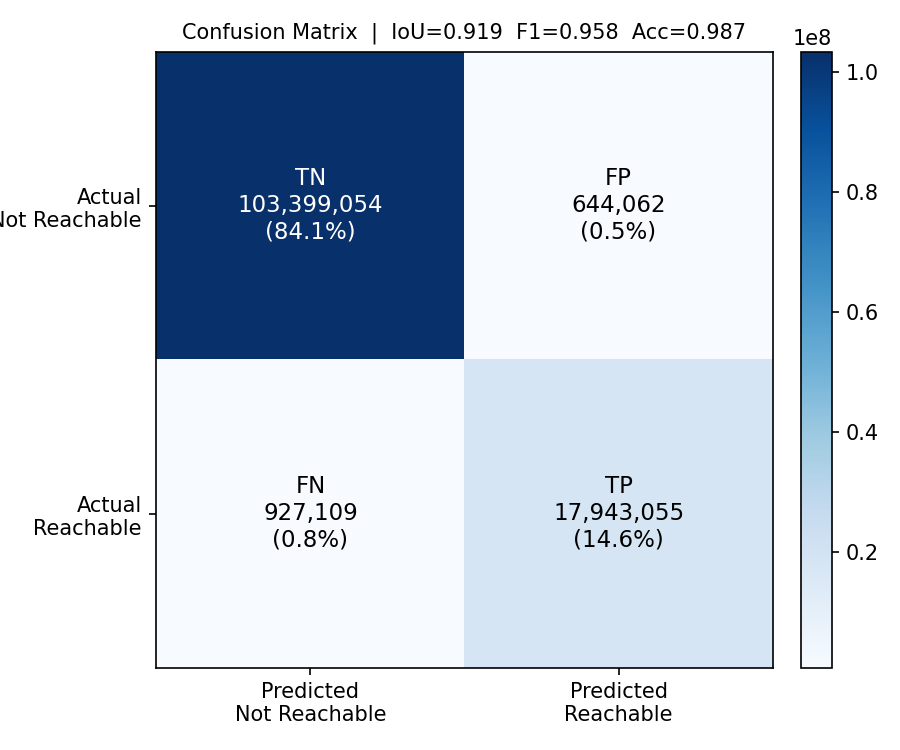
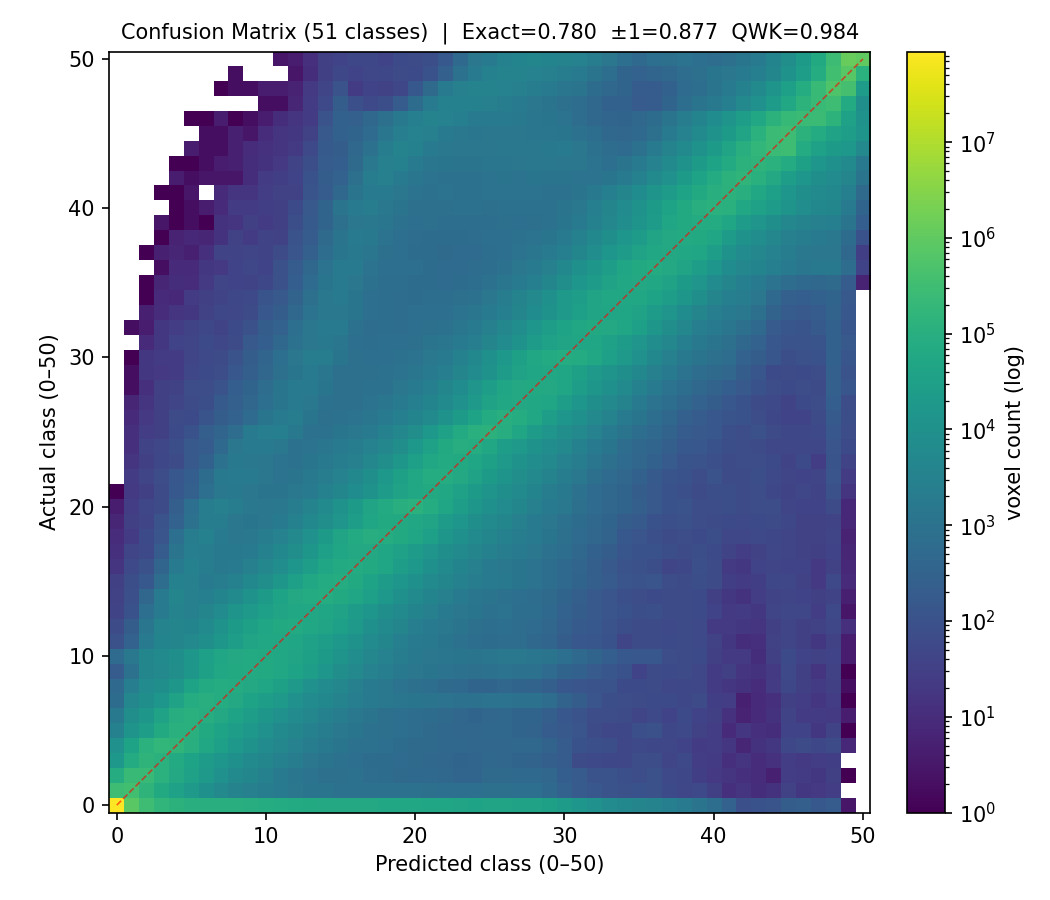
Add evaluation reports, confusion matrices, and region classification metrics for UNet3D experiments

diff --git a/unet_3d/script/evaluate.py b/unet_3d/script/evaluate.py
@@ -60,17 +60,19 @@ def normalize(arr):
 
 
 def predict_file(model, device, filepath):
+    """Return (pred, label, raw) as 3D float32 volumes (shape preserved for region masks)."""
     with h5py.File(filepath, "r") as f:
         raw   = f["raw"][:]
         label = f["label"][:]
 
-    raw_norm = normalize(raw.astype(np.float32))
+    raw_f = raw.astype(np.float32)
+    raw_norm = normalize(raw_f)
     tensor   = torch.from_numpy(raw_norm[np.newaxis, np.newaxis]).to(device)
 
     with torch.no_grad():
-        pred = model(tensor).squeeze().cpu().numpy()
+        pred = model(tensor).squeeze().cpu().numpy().astype(np.float32)
 
-    return pred.ravel(), label.ravel().astype(np.float32)
+    return pred, label.astype(np.float32), raw_f
 
 
 N_CLASSES = 51  # reachability index is a fraction of 50 -> classes 0..50
@@ -84,6 +86,31 @@ def to_classes(arr):
     mode), but clip guards any tiny over/undershoot.
     """
     return np.clip(np.rint(arr * 50.0), 0, 50).astype(np.int16)
+
+
+def gradmag3d(a):
+    """Per-voxel gradient magnitude of a 3D array (for locating sharp/thin edges)."""
+    gx, gy, gz = np.gradient(a.astype(np.float32))
+    return np.sqrt(gx ** 2 + gy ** 2 + gz ** 2)
+
+
+def region_masks(label_cls, label_cont, grad_pct=99.0):
+    """Boolean masks (same shape as the volume) isolating where the model's job is
+    actually hard. Aggregates dominated by empty background hide these.
+
+      reachable : class >= 1            (any non-empty voxel)
+      graded    : 1 <= class <= 49      (transition shell: not empty, not saturated)
+      thin      : top-1% |grad(label)|  (sharp boundaries / singularity lines)
+    """
+    reachable = label_cls >= 1
+    graded    = (label_cls >= 1) & (label_cls <= 49)
+    gl = gradmag3d(label_cont)
+    if reachable.any():
+        thr = np.quantile(gl, grad_pct / 100.0)
+        thin = gl >= thr
+    else:
+        thin = np.zeros_like(reachable)
+    return {"reachable": reachable, "graded": graded, "thin": thin}
 
 
 # =============================================================================
@@ -128,9 +155,11 @@ def multiclass_metrics(pred_cls, label_cls, n_classes=N_CLASSES):
     diff = np.abs(pred_cls.astype(np.int32) - label_cls.astype(np.int32))
     n = diff.size
 
-    exact   = float(np.mean(diff == 0))
-    within1 = float(np.mean(diff <= 1))
-    within2 = float(np.mean(diff <= 2))
+    exact    = float(np.mean(diff == 0))
+    within1  = float(np.mean(diff <= 1))
+    within2  = float(np.mean(diff <= 2))
+    within10 = float(np.mean(diff <= 10))
+    within20 = float(np.mean(diff <= 20))
     mace    = float(np.mean(diff))          # mean absolute class error (orientation steps)
     medce   = float(np.median(diff))
     rmsece  = float(np.sqrt(np.mean(diff.astype(np.float64) ** 2)))
@@ -142,6 +171,8 @@ def multiclass_metrics(pred_cls, label_cls, n_classes=N_CLASSES):
         "ExactAccuracy": exact,
         "Within1Accuracy": within1,
         "Within2Accuracy": within2,
+        "Within10Accuracy": within10,
+        "Within20Accuracy": within20,
         "MeanClassError": mace,
         "MedianClassError": medce,
         "RMSEClass": rmsece,
@@ -165,9 +196,11 @@ def merge_class_metrics(cm, n_voxels):
     if total == 0:
         total = 1.0
 
-    exact   = float(np.trace(counts) / total)
-    within1 = float(counts[diff <= 1].sum() / total)
-    within2 = float(counts[diff <= 2].sum() / total)
+    exact    = float(np.trace(counts) / total)
+    within1  = float(counts[diff <= 1].sum() / total)
+    within2  = float(counts[diff <= 2].sum() / total)
+    within10 = float(counts[diff <= 10].sum() / total)
+    within20 = float(counts[diff <= 20].sum() / total)
     mace    = float((counts * diff).sum() / total)
     rmsece  = float(np.sqrt((counts * diff.astype(np.float64) ** 2).sum() / total))
 
@@ -175,6 +208,8 @@ def merge_class_metrics(cm, n_voxels):
         "ExactAccuracy": exact,
         "Within1Accuracy": within1,
         "Within2Accuracy": within2,
+        "Within10Accuracy": within10,
+        "Within20Accuracy": within20,
         "MeanClassError": mace,
         "MedianClassError": float("nan"),  # not recoverable from the matrix
         "RMSEClass": rmsece,
@@ -216,6 +251,60 @@ def plot_confusion_matrix(cls_metrics, output_path):
     plt.close()
 
 
+def error_cdf_from_cm(cm):
+    """From a confusion matrix, return cdf[k] = fraction of voxels with
+    |pred - label| <= k  (k = 0..n_classes-1). cdf[0] is the exact accuracy."""
+    n = cm.shape[0]
+    i = np.arange(n)
+    dist = np.abs(i[:, None] - i[None, :]).ravel()
+    counts = np.bincount(dist, weights=cm.ravel().astype(np.float64), minlength=n)
+    total = counts.sum()
+    return np.cumsum(counts) / (total if total > 0 else 1.0)
+
+
+def plot_tolerance_curves(region_cm, region_n, output_path, thresh=0.95, kmax=15,
+                          global_cm=None, global_n=None, ymin=0.1):
+    """Cumulative accuracy vs tolerance: fraction of voxels within +-k classes,
+    one curve per region (+ optional global). Marks where each curve first
+    reaches `thresh` (95%)."""
+    if not _HAS_MATPLOTLIB:
+        return
+    colors = {"global": "tab:green", "reachable": "tab:blue",
+              "graded": "tab:orange", "thin": "tab:red"}
+    ks = np.arange(0, kmax + 1)
+
+    # global first (so it draws underneath the region curves), then the regions
+    series = []
+    if global_cm is not None:
+        series.append(("global", global_cm, global_n))
+    series += [(r, region_cm[r], region_n[r]) for r in region_cm]
+
+    fig, ax = plt.subplots(figsize=(8, 5))
+    for r, cm, n in series:
+        cdf = error_cdf_from_cm(cm)
+        k95 = int(np.argmax(cdf >= thresh)) if (cdf >= thresh).any() else None
+        n0 = int(round(cdf[0] * n)) if n else 0   # exact-correct voxel count
+        style = dict(marker="o", ms=3, color=colors.get(r))
+        if r == "global":
+            style.update(ls="--", lw=1.3, alpha=0.8)   # dashed to set it apart
+        lbl = (f"{r}: exact={cdf[0]:.3f} ({n0:,} vox)"
+               + (f", {thresh:.0%} at ±{k95}" if k95 is not None else f", <{thresh:.0%}"))
+        ax.plot(ks, cdf[:kmax + 1], label=lbl, **style)
+        if k95 is not None and k95 <= kmax:
+            ax.axvline(k95, color=colors.get(r), ls=":", lw=0.9, alpha=0.6)
+
+    ax.axhline(thresh, color="k", ls="--", lw=1, alpha=0.7)
+    ax.set_xlabel("tolerance  ±k classes   (|pred − label| ≤ k)")
+    ax.set_ylabel("fraction of voxels within tolerance")
+    ax.set_title("Cumulative accuracy vs tolerance, by region")
+    ax.set_xlim(0, kmax); ax.set_ylim(ymin, 1.01)
+    ax.set_xticks(np.arange(0, kmax + 1, 1))
+    ax.grid(alpha=0.3); ax.legend(loc="lower right", fontsize=9)
+    plt.tight_layout()
+    plt.savefig(output_path, dpi=150)
+    plt.close()
+
+
 def plot_error_histogram(preds, labels, output_path):
     if not _HAS_MATPLOTLIB:
         return
@@ -231,6 +320,56 @@ def plot_error_histogram(preds, labels, output_path):
     plt.tight_layout()
     plt.savefig(output_path, dpi=150)
     plt.close()
+
+
+def plot_region_slices(samples, output_dir):
+    """For each (pred, label, raw) sample, save a regions_N.png showing:
+      col 0: raw input (binary obstacle occupancy, 0/1)
+      col 1: label where reachable (class>=1), black outside
+      col 2: label where graded (class 1-49), black outside
+      col 3: label where thin (top-1% |grad(label)|), black outside
+
+    Uses the X-axis slice with the most thin-region voxels (singularity plane).
+    """
+    if not _HAS_MATPLOTLIB:
+        return
+    col_titles = ["raw input\n(obstacles)", "reachable\n(class ≥ 1)",
+                  "graded\n(class 1–49)", "thin\n(top 1% |∇label|)"]
+    for n, (pred, label, raw) in enumerate(samples):
+        label_cls = to_classes(label)
+        masks = region_masks(label_cls, label)
+
+        # pick X slice with most thin-region voxels (singularity plane)
+        thin_per_x = masks["thin"].sum(axis=(1, 2))
+        xc = int(np.argmax(thin_per_x)) if thin_per_x.max() > 0 else label.shape[0] // 2
+
+        raw_sl   = np.rot90(raw[xc, :, :])
+        label_sl = np.rot90(label[xc, :, :])
+        mask_sls = {r: np.rot90(masks[r][xc, :, :]) for r in ["reachable", "graded", "thin"]}
+
+        fig, axs = plt.subplots(2, 2, figsize=(10, 10))
+        axs_flat = axs.flatten()   # [top-left, top-right, bottom-left, bottom-right]
+
+        # top-left: raw input — binary occupancy (0 or 1), hot colormap
+        axs_flat[0].imshow(raw_sl, cmap="hot", vmin=0, vmax=1)
+        axs_flat[0].set_title(col_titles[0]); axs_flat[0].axis("off")
+        n_obs = int((raw_sl > 0).sum())
+        axs_flat[0].set_xlabel(f"{n_obs} occupied voxels", fontsize=8)
+
+        # top-right + bottom row: label value inside region, white outside
+        cmap_region = plt.cm.gnuplot.copy(); cmap_region.set_bad("white")
+        for ax, r, title in zip(axs_flat[1:], ["reachable", "graded", "thin"], col_titles[1:]):
+            m = mask_sls[r]
+            img = np.where(m, label_sl.astype(np.float32), np.nan)
+            im = ax.imshow(img, cmap=cmap_region, vmin=0, vmax=1)
+            ax.set_title(title); ax.axis("off")
+            ax.set_xlabel(f"{int(m.sum())} voxels in slice", fontsize=8)
+            plt.colorbar(im, ax=ax, fraction=0.046, pad=0.04)
+
+        plt.suptitle(f"Sample {n}  —  X slice {xc}  (singularity plane)", fontsize=11)
+        plt.tight_layout()
+        plt.savefig(os.path.join(output_dir, f"regions_{n}.png"), dpi=150)
+        plt.close()
 
 
 # =============================================================================
@@ -251,12 +390,34 @@ def print_metrics(reg, cls):
     print(f"  Exact accuracy   : {cls['ExactAccuracy']:.4f}")
     print(f"  Within-±1 acc.   : {cls['Within1Accuracy']:.4f}")
     print(f"  Within-±2 acc.   : {cls['Within2Accuracy']:.4f}")
+    print(f"  Within-±10 acc.  : {cls['Within10Accuracy']:.4f}")
+    print(f"  Within-±20 acc.  : {cls['Within20Accuracy']:.4f}")
     print(f"  Mean class error : {cls['MeanClassError']:.4f}  (orientation steps)")
     print(f"  RMSE (class)     : {cls['RMSEClass']:.4f}")
     print(f"  Quadratic kappa  : {cls['QuadraticKappa']:.4f}")
 
 
-def save_report(reg, cls, output_path, n_files, n_voxels):
+_REGION_DESC = {
+    "reachable": "class >= 1 (non-empty)",
+    "graded":    "1..49 (transition shell)",
+    "thin":      "top-1% |grad(label)| (edges/singularity lines)",
+}
+
+
+def print_region_metrics(region_cls, region_n):
+    print(f"\n  -- Per-region classification (background excluded) --")
+    print(f"  {'region':<10} {'voxels':>12}  {'exact':>6} {'±1':>6} {'±2':>6} {'±10':>6} {'±20':>6} "
+          f"{'meanErr':>8} {'rmse':>6} {'QWK':>6}")
+    for r, m in region_cls.items():
+        print(f"  {r:<10} {region_n[r]:>12,}  "
+              f"{m['ExactAccuracy']:>6.3f} {m['Within1Accuracy']:>6.3f} "
+              f"{m['Within2Accuracy']:>6.3f} {m['Within10Accuracy']:>6.3f} "
+              f"{m['Within20Accuracy']:>6.3f} {m['MeanClassError']:>8.3f} "
+              f"{m['RMSEClass']:>6.2f} {m['QuadraticKappa']:>6.3f}")
+    print(f"     ({', '.join(f'{r}={_REGION_DESC[r]}' for r in region_cls)})")
+
+
+def save_report(reg, cls, output_path, n_files, n_voxels, region_cls=None, region_n=None):
     with open(output_path, "w") as f:
         f.write("=== CapaciNet Evaluation Report ===\n\n")
         f.write(f"Val files : {n_files}\n")
@@ -269,9 +430,23 @@ def save_report(reg, cls, output_path, n_files, n_voxels):
         f.write(f"Exact accuracy   : {cls['ExactAccuracy']:.4f}\n")
         f.write(f"Within-+-1 acc.  : {cls['Within1Accuracy']:.4f}\n")
         f.write(f"Within-+-2 acc.  : {cls['Within2Accuracy']:.4f}\n")
+        f.write(f"Within-+-10 acc. : {cls['Within10Accuracy']:.4f}\n")
+        f.write(f"Within-+-20 acc. : {cls['Within20Accuracy']:.4f}\n")
         f.write(f"Mean class error : {cls['MeanClassError']:.4f}  (orientation steps)\n")
         f.write(f"RMSE (class)     : {cls['RMSEClass']:.4f}\n")
         f.write(f"Quadratic kappa  : {cls['QuadraticKappa']:.4f}\n")
+        if region_cls:
+            f.write("\n-- Per-region classification (background excluded) --\n")
+            f.write(f"{'region':<10} {'voxels':>12}  {'exact':>6} {'+-1':>6} {'+-2':>6} {'+-10':>6} {'+-20':>6} "
+                    f"{'meanErr':>8} {'rmse':>6} {'QWK':>6}\n")
+            for r, m in region_cls.items():
+                f.write(f"{r:<10} {region_n[r]:>12,}  "
+                        f"{m['ExactAccuracy']:>6.3f} {m['Within1Accuracy']:>6.3f} "
+                        f"{m['Within2Accuracy']:>6.3f} {m['Within10Accuracy']:>6.3f} "
+                        f"{m['Within20Accuracy']:>6.3f} {m['MeanClassError']:>8.3f} "
+                        f"{m['RMSEClass']:>6.2f} {m['QuadraticKappa']:>6.3f}\n")
+            for r in region_cls:
+                f.write(f"  {r}: {_REGION_DESC[r]}\n")
 
 
 # =============================================================================
@@ -307,22 +482,33 @@ def main():
 
     all_preds, all_labels = [], []
     global_cm = np.zeros((N_CLASSES, N_CLASSES), dtype=np.int64)
-    per_file_rows = []
+    # per-region accumulated confusion matrices + voxel counts
+    region_names = ["reachable", "graded", "thin"]
+    region_cm = {r: np.zeros((N_CLASSES, N_CLASSES), dtype=np.int64) for r in region_names}
+    region_n  = {r: 0 for r in region_names}
+    region_samples = []   # first 3 (pred, label, raw) volumes for region_slices plot
 
     for i, fp in enumerate(val_files):
         fname = os.path.basename(fp)
-        preds, labels = predict_file(model, device, fp)
-        all_preds.append(preds)
-        all_labels.append(labels)
+        pred, label, raw = predict_file(model, device, fp)     # 3D volumes
+        all_preds.append(pred.ravel())
+        all_labels.append(label.ravel())
+        if i < 3:
+            region_samples.append((pred, label, raw))
 
         # First treatment: quantize pred + GT to integer classes 0..50.
-        pred_cls  = to_classes(preds)
-        label_cls = to_classes(labels)
+        pred_cls  = to_classes(pred)
+        label_cls = to_classes(label)
 
-        reg = regression_metrics(preds, labels)
-        cls = multiclass_metrics(pred_cls, label_cls)
+        reg = regression_metrics(pred.ravel(), label.ravel())
+        cls = multiclass_metrics(pred_cls.ravel(), label_cls.ravel())
         global_cm += cls["ConfusionMatrix"]
-        per_file_rows.append((fname, reg, cls))
+
+        # region-restricted confusion matrices (the hard, non-background voxels)
+        for r, m in region_masks(label_cls, label).items():
+            if m.any():
+                region_cm[r] += confusion_matrix(pred_cls[m], label_cls[m])
+                region_n[r]  += int(m.sum())
 
         print(f"  [{i+1:4d}/{len(val_files)}] {fname:<45} "
               f"MAE={reg['MAE']:.4f}  Exact={cls['ExactAccuracy']:.4f}  "
@@ -334,24 +520,35 @@ def main():
 
     global_reg = regression_metrics(all_preds, all_labels)
     global_cls = merge_class_metrics(global_cm, n_voxels=len(all_preds))
+    region_cls = {r: merge_class_metrics(region_cm[r], n_voxels=region_n[r]) for r in region_names}
 
     print_header("Global Results")
     print(f"  Val files : {len(val_files)}")
     print(f"  Voxels    : {len(all_preds):,}")
     print_metrics(global_reg, global_cls)
+    print_region_metrics(region_cls, region_n)
 
     # Save outputs
     plot_confusion_matrix(global_cls, os.path.join(args.output_dir, "confusion_matrix.png"))
     plot_error_histogram(all_preds, all_labels, os.path.join(args.output_dir, "error_histogram.png"))
+    plot_tolerance_curves(region_cm, region_n, os.path.join(args.output_dir, "tolerance_curve.png"),
+                          global_cm=global_cm, global_n=len(all_preds))
+    plot_region_slices(region_samples, args.output_dir)
+    np.savez_compressed(os.path.join(args.output_dir, "confusion_matrices.npz"),
+                        global_cm=global_cm, **{f"{r}_cm": region_cm[r] for r in region_names})
     save_report(global_reg, global_cls, os.path.join(args.output_dir, "report.txt"),
-                n_files=len(val_files), n_voxels=len(all_preds))
+                n_files=len(val_files), n_voxels=len(all_preds),
+                region_cls=region_cls, region_n=region_n)
 
     print(f"\n  Saved to: {args.output_dir}/")
     if _HAS_MATPLOTLIB:
         print(f"    confusion_matrix.png")
         print(f"    error_histogram.png")
+        print(f"    tolerance_curve.png")
+        print(f"    regions_0.png .. regions_{min(2, len(val_files)-1)}.png")
     else:
         print(f"    (plots skipped — matplotlib not available)")
+    print(f"    confusion_matrices.npz")
     print(f"    report.txt\n")
 
 

diff --git a/unet_3d/script/launch_training.py b/unet_3d/script/launch_training.py
@@ -1024,7 +1024,6 @@ def generate_evaluation_report(exp):
 
     evaluate_host = os.path.join(UNET3D_DIR, "script", "evaluate.py")
 
-    threshold = prompt("  Binarization threshold", default=0.5, cast=float)
     time_limit = prompt("  Time limit (HH:MM:SS)", default="2:00:00")
 
     # Resolve val directory: prefer <exp>/data/val if it exists locally,
@@ -1058,9 +1057,9 @@ def generate_evaluation_report(exp):
 #SBATCH --output={logs_dir}/slurm_eval_%j.out
 #SBATCH --error={logs_dir}/slurm_eval_%j.err
 #SBATCH --time={time_limit}
-#SBATCH --mem-per-cpu=30G
+#SBATCH --mem-per-cpu=10G
 #SBATCH --gpus-per-node=1
-#SBATCH --cpus-per-task=2
+#SBATCH --cpus-per-task=1
 #SBATCH --export=ALL,DISABLE_DCGM=1
 
 set -e
@@ -1072,8 +1071,7 @@ python {evaluate_host} \\
     --config     {config_host} \\
     --checkpoint {best_ckpt_host} \\
     --output_dir {output_host} \\
-    --val_dir    {val_dir_host} \\
-    --threshold  {threshold}
+    --val_dir    {val_dir_host}
 
 deactivate
 echo "==> Evaluation complete: {exp_name}"
